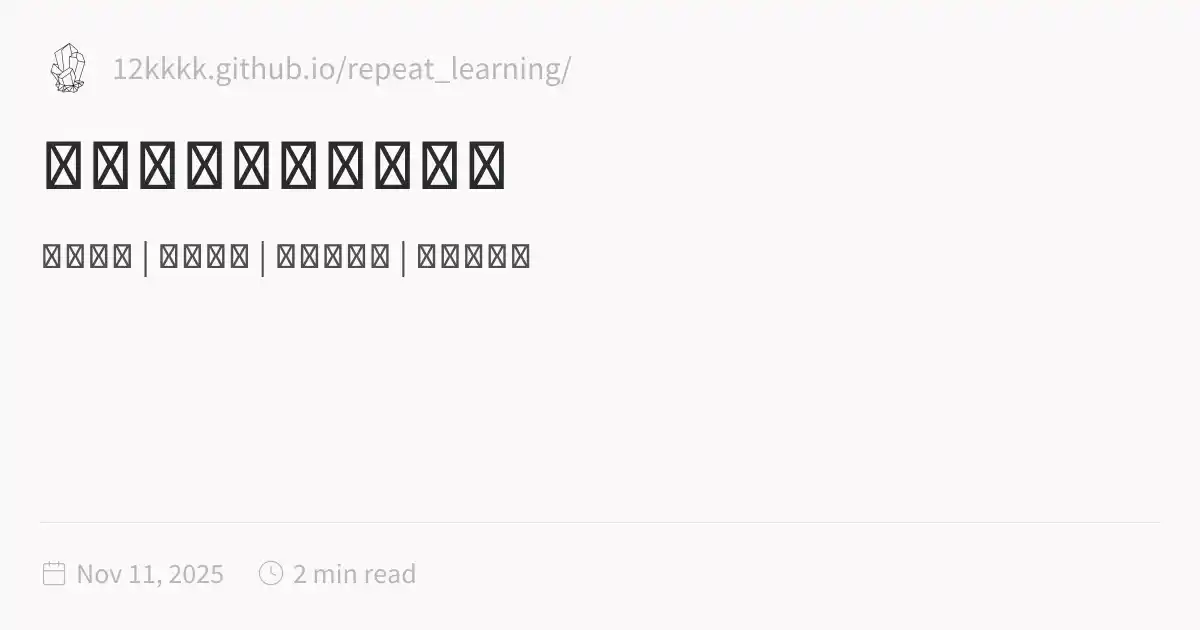
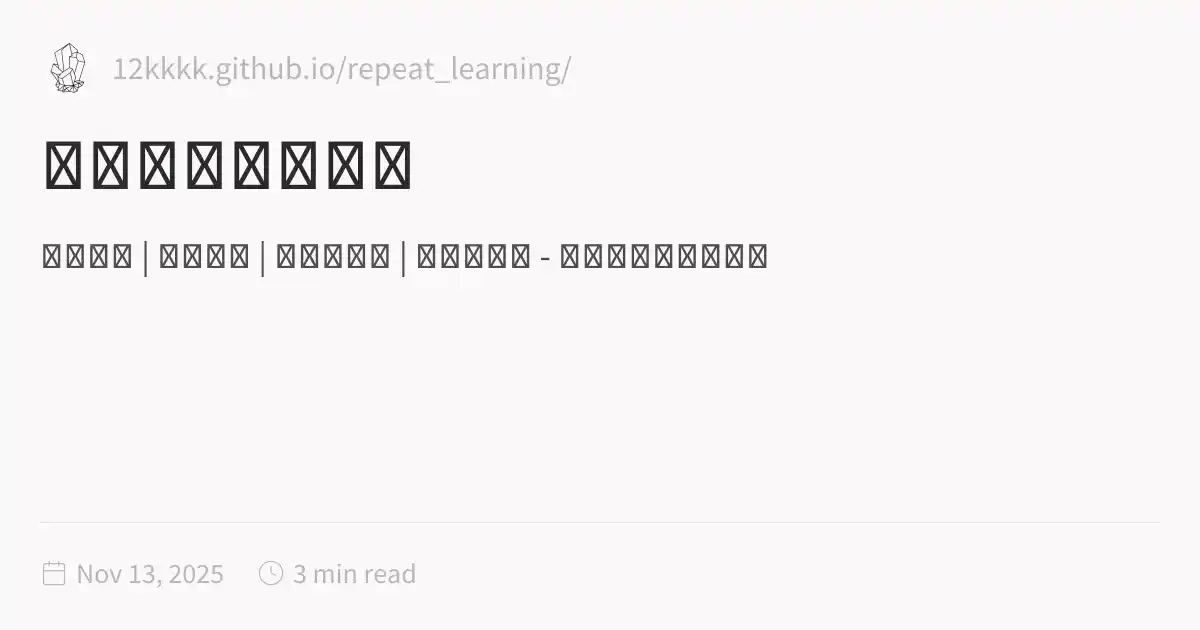
update

Changed region(s): [[0.4625, 0.3619, 0.6475, 0.4222], [0.3392, 0.2111, 0.4317, 0.3016]]

diff --git a/public/index.html b/public/index.html
@@ -1,5 +1,5 @@
 <!DOCTYPE html>
-<html lang="en" dir="ltr"><head><title>我的生物信息学知识库</title><meta charset="utf-8"/><link rel="preconnect" href="https://fonts.googleapis.com"/><link rel="preconnect" href="https://fonts.gstatic.com"/><link rel="stylesheet" href="https://fonts.googleapis.com/css2?family=Schibsted Grotesk:wght@400;700&amp;family=Source Sans Pro:ital,wght@0,400;0,600;1,400;1,600&amp;family=IBM Plex Mono:wght@400;600&amp;display=swap"/><link rel="preconnect" href="https://cdnjs.cloudflare.com" crossorigin="anonymous"/><meta name="viewport" content="width=device-width, initial-scale=1.0"/><meta name="og:site_name" content="飞鸿踏雪的知识仓库"/><meta property="og:title" content="我的生物信息学知识库"/><meta property="og:type" content="website"/><meta name="twitter:card" content="summary_large_image"/><meta name="twitter:title" content="我的生物信息学知识库"/><meta name="twitter:description" content="基因组学 | 转录组学 | 表观遗传学 | 数量遗传学"/><meta property="og:description" content="基因组学 | 转录组学 | 表观遗传学 | 数量遗传学"/><meta property="og:image:alt" content="基因组学 | 转录组学 | 表观遗传学 | 数量遗传学"/><meta property="twitter:domain" content="12kkkk.github.io/repeat_learning/"/><meta property="og:url" content="https://12kkkk.github.io/repeat_learning/index"/><meta property="twitter:url" content="https://12kkkk.github.io/repeat_learning/index"/><link rel="icon" href="./static/icon.png"/><meta name="description" content="基因组学 | 转录组学 | 表观遗传学 | 数量遗传学"/><meta name="generator" content="Quartz"/><link href="./index.css" rel="stylesheet" type="text/css" spa-preserve/><style>.expand-button {
+<html lang="en" dir="ltr"><head><title>飞鸿踏雪的知识库</title><meta charset="utf-8"/><link rel="preconnect" href="https://fonts.googleapis.com"/><link rel="preconnect" href="https://fonts.gstatic.com"/><link rel="stylesheet" href="https://fonts.googleapis.com/css2?family=Schibsted Grotesk:wght@400;700&amp;family=Source Sans Pro:ital,wght@0,400;0,600;1,400;1,600&amp;family=IBM Plex Mono:wght@400;600&amp;display=swap"/><link rel="preconnect" href="https://cdnjs.cloudflare.com" crossorigin="anonymous"/><meta name="viewport" content="width=device-width, initial-scale=1.0"/><meta name="og:site_name" content="飞鸿踏雪的知识仓库"/><meta property="og:title" content="飞鸿踏雪的知识库"/><meta property="og:type" content="website"/><meta name="twitter:card" content="summary_large_image"/><meta name="twitter:title" content="飞鸿踏雪的知识库"/><meta name="twitter:description" content="基因组学 | 转录组学 | 表观遗传学 | 数量遗传学 - 持续更新的数字花园"/><meta property="og:description" content="基因组学 | 转录组学 | 表观遗传学 | 数量遗传学 - 持续更新的数字花园"/><meta property="og:image:alt" content="基因组学 | 转录组学 | 表观遗传学 | 数量遗传学 - 持续更新的数字花园"/><meta property="twitter:domain" content="12kkkk.github.io/repeat_learning/"/><meta property="og:url" content="https://12kkkk.github.io/repeat_learning/index"/><meta property="twitter:url" content="https://12kkkk.github.io/repeat_learning/index"/><link rel="icon" href="./static/icon.png"/><meta name="description" content="基因组学 | 转录组学 | 表观遗传学 | 数量遗传学 - 持续更新的数字花园"/><meta name="generator" content="Quartz"/><link href="./index.css" rel="stylesheet" type="text/css" spa-preserve/><style>.expand-button {
   position: absolute;
   display: flex;
   float: right;
@@ -116,51 +116,126 @@ pre:hover > .expand-button {
   padding: 0 12px;
   font-size: 14px;
 }
[1 lines of base64/hex data omitted]
-<p>这里是我在生物信息学领域的学习笔记和知识积累。</p>
-<p><img src="https://via.placeholder.com/800x400?text=Bioinformatics+Background" alt="生物信息学"/>
-<em>生物信息学 - 连接生物学与计算科学</em></p>
-<h2 id="-核心领域">📚 核心领域<a role="anchor" aria-hidden="true" tabindex="-1" data-no-popover="true" href="#-核心领域" class="internal"><svg width="18" height="18" viewBox="0 0 24 24" fill="none" stroke="currentColor" stroke-width="2" stroke-linecap="round" stroke-linejoin="round"><path d="M10 13a5 5 0 0 0 7.54.54l3-3a5 5 0 0 0-7.07-7.07l-1.72 1.71"></path><path d="M14 11a5 5 0 0 0-7.54-.54l-3 3a5 5 0 0 0 7.07 7.07l1.71-1.71"></path></svg></a></h2>
-<div class="home-grid">
-<h3 id="基因组学">基因组学<a role="anchor" aria-hidden="true" tabindex="-1" data-no-popover="true" href="#基因组学" class="internal"><svg width="18" height="18" viewBox="0 0 24 24" fill="none" stroke="currentColor" stroke-width="2" stroke-linecap="round" stroke-linejoin="round"><path d="M10 13a5 5 0 0 0 7.54.54l3-3a5 5 0 0 0-7.07-7.07l-1.72 1.71"></path><path d="M14 11a5 5 0 0 0-7.54-.54l-3 3a5 5 0 0 0 7.07 7.07l1.71-1.71"></path></svg></a></h3>
[1 lines of base64/hex data omitted]
+<p>这里是我在生物信息学领域的学习笔记和知识积累，内容持续生长和更新。</p>
+<blockquote>
+<p>本知识库最后更新于：<strong>{{date}}</strong> | 共收录 <strong>{{noteCount}}</strong> 篇笔记</p>
+</blockquote>
+<hr/>
+<h2 id="-核心知识领域">📚 核心知识领域<a role="anchor" aria-hidden="true" tabindex="-1" data-no-popover="true" href="#-核心知识领域" class="internal"><svg width="18" height="18" viewBox="0 0 24 24" fill="none" stroke="currentColor" stroke-width="2" stroke-linecap="round" stroke-linejoin="round"><path d="M10 13a5 5 0 0 0 7.54.54l3-3a5 5 0 0 0-7.07-7.07l-1.72 1.71"></path><path d="M14 11a5 5 0 0 0-7.54-.54l-3 3a5 5 0 0 0 7.07 7.07l1.71-1.71"></path></svg></a></h2>
+<h3 id="-基因组学">🧬 基因组学<a role="anchor" aria-hidden="true" tabindex="-1" data-no-popover="true" href="#-基因组学" class="internal"><svg width="18" height="18" viewBox="0 0 24 24" fill="none" stroke="currentColor" stroke-width="2" stroke-linecap="round" stroke-linejoin="round"><path d="M10 13a5 5 0 0 0 7.54.54l3-3a5 5 0 0 0-7.07-7.07l-1.72 1.71"></path><path d="M14 11a5 5 0 0 0-7.54-.54l-3 3a5 5 0 0 0 7.07 7.07l1.71-1.71"></path></svg></a></h3>
 <ul>
-<li><a href="./基因组学/基因组学包括的内容有哪些？" class="internal alias" data-slug="基因组学/基因组学包括的内容有哪些？">基因组学包括的内容有哪些？</a></li>
-<li>基因结构与功能</li>
-<li>基因组测序技术</li>
+<li><a href="./基因组学包括的内容有哪些？" class="internal alias" data-slug="基因组学包括的内容有哪些？">基因组学包括的内容有哪些？</a></li>
+<li><a href="./基因组组装方法与流程详解" class="internal alias" data-slug="基因组组装方法与流程详解">基因组组装方法与流程详解</a></li>
+<li><a href="./变异检测原理与实践" class="internal alias" data-slug="变异检测原理与实践">变异检测原理与实践</a></li>
+<li><a href="./比较基因组学分析" class="internal alias" data-slug="比较基因组学分析">比较基因组学分析</a></li>
+<li><a href="./tags/基因组学" class="internal alias" data-slug="tags/基因组学">查看所有基因组学笔记…</a></li>
 </ul>
-<h3 id="转录组学">转录组学<a role="anchor" aria-hidden="true" tabindex="-1" data-no-popover="true" href="#转录组学" class="internal"><svg width="18" height="18" viewBox="0 0 24 24" fill="none" stroke="currentColor" stroke-width="2" stroke-linecap="round" stroke-linejoin="round"><path d="M10 13a5 5 0 0 0 7.54.54l3-3a5 5 0 0 0-7.07-7.07l-1.72 1.71"></path><path d="M14 11a5 5 0 0 0-7.54-.54l-3 3a5 5 0 0 0 7.07 7.07l1.71-1.71"></path></svg></a></h3>
+<h3 id="-转录组学">📊 转录组学<a role="anchor" aria-hidden="true" tabindex="-1" data-no-popover="true" href="#-转录组学" class="internal"><svg width="18" height="18" viewBox="0 0 24 24" fill="none" stroke="currentColor" stroke-width="2" stroke-linecap="round" stroke-linejoin="round"><path d="M10 13a5 5 0 0 0 7.54.54l3-3a5 5 0 0 0-7.07-7.07l-1.72 1.71"></path><path d="M14 11a5 5 0 0 0-7.54-.54l-3 3a5 5 0 0 0 7.07 7.07l1.71-1.71"></path></svg></a></h3>
 <ul>
-<li><a href="./RNA-seq——转录组" class="internal alias" data-slug="RNA-seq——转录组">RNA-seq——转录组</a></li>
 <li><a href="./RNA-seq数据分析全流程" class="internal alias" data-slug="RNA-seq数据分析全流程">RNA-seq数据分析全流程</a></li>
-<li>差异表达分析</li>
+<li><a href="./差异表达分析标准化方法" class="internal alias" data-slug="差异表达分析标准化方法">差异表达分析标准化方法</a></li>
+<li><a href="./单细胞转录组技术" class="internal alias" data-slug="单细胞转录组技术">单细胞转录组技术</a></li>
+<li><a href="./可变剪切分析实战指南" class="internal alias" data-slug="可变剪切分析实战指南">可变剪切分析实战指南</a></li>
+<li><a href="./tags/转录组学" class="internal alias" data-slug="tags/转录组学">查看所有转录组学笔记…</a></li>
 </ul>
-<h3 id="表观遗传学">表观遗传学<a role="anchor" aria-hidden="true" tabindex="-1" data-no-popover="true" href="#表观遗传学" class="internal"><svg width="18" height="18" viewBox="0 0 24 24" fill="none" stroke="currentColor" stroke-width="2" stroke-linecap="round" stroke-linejoin="round"><path d="M10 13a5 5 0 0 0 7.54.54l3-3a5 5 0 0 0-7.07-7.07l-1.72 1.71"></path><path d="M14 11a5 5 0 0 0-7.54-.54l-3 3a5 5 0 0 0 7.07 7.07l1.71-1.71"></path></svg></a></h3>
+<h3 id="-表观遗传学">🧩 表观遗传学<a role="anchor" aria-hidden="true" tabindex="-1" data-no-popover="true" href="#-表观遗传学" class="internal"><svg width="18" height="18" viewBox="0 0 24 24" fill="none" stroke="currentColor" stroke-width="2" stroke-linecap="round" stroke-linejoin="round"><path d="M10 13a5 5 0 0 0 7.54.54l3-3a5 5 0 0 0-7.07-7.07l-1.72 1.71"></path><path d="M14 11a5 5 0 0 0-7.54-.54l-3 3a5 5 0 0 0 7.07 7.07l1.71-1.71"></path></svg></a></h3>
 <ul>
-<li><a href="./表观遗传学/表观遗传学--epigenetic" class="internal alias" data-slug="表观遗传学/表观遗传学--epigenetic">表观遗传学—epigenetic</a></li>
-<li>DNA甲基化分析</li>
-<li>染色质可及性</li>
+<li><a href="./DNA甲基化检测与分析" class="internal alias" data-slug="DNA甲基化检测与分析">DNA甲基化检测与分析</a></li>
+<li><a href="./染色质可及性研究" class="internal alias" data-slug="染色质可及性研究">染色质可及性研究</a></li>
+<li><a href="./表观遗传调控机制" class="internal alias" data-slug="表观遗传调控机制">表观遗传调控机制</a></li>
+<li><a href="./多组学整合分析" class="internal alias" data-slug="多组学整合分析">多组学整合分析</a></li>
+<li><a href="./tags/表观遗传学" class="internal alias" data-slug="tags/表观遗传学">查看所有表观遗传学笔记…</a></li>
 </ul>
-<h3 id="数据分析技术">数据分析技术<a role="anchor" aria-hidden="true" tabindex="-1" data-no-popover="true" href="#数据分析技术" class="internal"><svg width="18" height="18" viewBox="0 0 24 24" fill="none" stroke="currentColor" stroke-width="2" stroke-linecap="round" stroke-linejoin="round"><path d="M10 13a5 5 0 0 0 7.54.54l3-3a5 5 0 0 0-7.07-7.07l-1.72 1.71"></path><path d="M14 11a5 5 0 0 0-7.54-.54l-3 3a5 5 0 0 0 7.07 7.07l1.71-1.71"></path></svg></a></h3>
+<hr/>
+<h2 id="-最近更新">🆕 最近更新<a role="anchor" aria-hidden="true" tabindex="-1" data-no-popover="true" href="#-最近更新" class="internal"><svg width="18" height="18" viewBox="0 0 24 24" fill="none" stroke="currentColor" stroke-width="2" stroke-linecap="round" stroke-linejoin="round"><path d="M10 13a5 5 0 0 0 7.54.54l3-3a5 5 0 0 0-7.07-7.07l-1.72 1.71"></path><path d="M14 11a5 5 0 0 0-7.54-.54l-3 3a5 5 0 0 0 7.07 7.07l1.71-1.71"></path></svg></a></h2>
+<h3 id="本周新笔记">本周新笔记<a role="anchor" aria-hidden="true" tabindex="-1" data-no-popover="true" href="#本周新笔记" class="internal"><svg width="18" height="18" viewBox="0 0 24 24" fill="none" stroke="currentColor" stroke-width="2" stroke-linecap="round" stroke-linejoin="round"><path d="M10 13a5 5 0 0 0 7.54.54l3-3a5 5 0 0 0-7.07-7.07l-1.72 1.71"></path><path d="M14 11a5 5 0 0 0-7.54-.54l-3 3a5 5 0 0 0 7.07 7.07l1.71-1.71"></path></svg></a></h3>
 <ul>
-<li><a href="./可变剪切分析（一）详细教程" class="internal alias" data-slug="可变剪切分析（一）详细教程">可变剪切分析（一）详细教程</a></li>
-<li><a href="./各种RNA" class="internal alias" data-slug="各种RNA">各种RNA</a></li>
-<li>统计分析流程</li>
+<li><a href="./最新基因组学研究进展" class="internal alias" data-slug="最新基因组学研究进展">最新基因组学研究进展</a> <span class="update-badge">NEW</span></li>
+<li><a href="./RNA-seq技术新方法" class="internal alias" data-slug="RNA-seq技术新方法">RNA-seq技术新方法</a> <span class="update-badge">3天前</span></li>
+<li><a href="./表观遗传学实验指南" class="internal alias" data-slug="表观遗传学实验指南">表观遗传学实验指南</a> <span class="update-badge">5天前</span></li>
+</ul>
+<h3 id="最新修订">最新修订<a role="anchor" aria-hidden="true" tabindex="-1" data-no-popover="true" href="#最新修订" class="internal"><svg width="18" height="18" viewBox="0 0 24 24" fill="none" stroke="currentColor" stroke-width="2" stroke-linecap="round" stroke-linejoin="round"><path d="M10 13a5 5 0 0 0 7.54.54l3-3a5 5 0 0 0-7.07-7.07l-1.72 1.71"></path><path d="M14 11a5 5 0 0 0-7.54-.54l-3 3a5 5 0 0 0 7.07 7.07l1.71-1.71"></path></svg></a></h3>
+<ul>
+<li><a href="./基因组学包括的内容有哪些？" class="internal alias" data-slug="基因组学包括的内容有哪些？">基因组学包括的内容有哪些？</a> <span class="update-badge">更新于 2025-11-12</span></li>
+<li><a href="./RNA-seq数据分析全流程" class="internal alias" data-slug="RNA-seq数据分析全流程">RNA-seq数据分析全流程</a> <span class="update-badge">更新于 2025-11-10</span></li>
+</ul>
+<p><a href="./changelog" class="internal alias" data-slug="changelog">查看完整更新日志</a> | <a href="./notes" class="internal alias" data-slug="notes">浏览所有笔记</a></p>
+<hr/>
+<h2 id="-热门内容">🔥 热门内容<a role="anchor" aria-hidden="true" tabindex="-1" data-no-popover="true" href="#-热门内容" class="internal"><svg width="18" height="18" viewBox="0 0 24 24" fill="none" stroke="currentColor" stroke-width="2" stroke-linecap="round" stroke-linejoin="round"><path d="M10 13a5 5 0 0 0 7.54.54l3-3a5 5 0 0 0-7.07-7.07l-1.72 1.71"></path><path d="M14 11a5 5 0 0 0-7.54-.54l-3 3a5 5 0 0 0 7.07 7.07l1.71-1.71"></path></svg></a></h2>
+<h3 id="最多阅读">最多阅读<a role="anchor" aria-hidden="true" tabindex="-1" data-no-popover="true" href="#最多阅读" class="internal"><svg width="18" height="18" viewBox="0 0 24 24" fill="none" stroke="currentColor" stroke-width="2" stroke-linecap="round" stroke-linejoin="round"><path d="M10 13a5 5 0 0 0 7.54.54l3-3a5 5 0 0 0-7.07-7.07l-1.72 1.71"></path><path d="M14 11a5 5 0 0 0-7.54-.54l-3 3a5 5 0 0 0 7.07 7.07l1.71-1.71"></path></svg></a></h3>
+<ul>
+<li><a href="./生物信息学入门指南" class="internal alias" data-slug="生物信息学入门指南">生物信息学入门指南</a></li>
+<li><a href="./Linux基础命令速查手册" class="internal alias" data-slug="Linux基础命令速查手册">Linux基础命令速查手册</a></li>
+<li><a href="./R语言数据分析实战" class="internal alias" data-slug="R语言数据分析实战">R语言数据分析实战</a></li>
+</ul>
+<h3 id="关键概念">关键概念<a role="anchor" aria-hidden="true" tabindex="-1" data-no-popover="true" href="#关键概念" class="internal"><svg width="18" height="18" viewBox="0 0 24 24" fill="none" stroke="currentColor" stroke-width="2" stroke-linecap="round" stroke-linejoin="round"><path d="M10 13a5 5 0 0 0 7.54.54l3-3a5 5 0 0 0-7.07-7.07l-1.72 1.71"></path><path d="M14 11a5 5 0 0 0-7.54-.54l-3 3a5 5 0 0 0 7.07 7.07l1.71-1.71"></path></svg></a></h3>
+<ul>
+<li><a href="./基因组学核心概念解析" class="internal alias" data-slug="基因组学核心概念解析">基因组学核心概念解析</a></li>
+<li><a href="./转录组分析必备知识" class="internal alias" data-slug="转录组分析必备知识">转录组分析必备知识</a></li>
+<li><a href="./表观遗传学基础" class="internal alias" data-slug="表观遗传学基础">表观遗传学基础</a></li>
+</ul>
+<hr/>
+<h2 id="-快速导航">🗂 快速导航<a role="anchor" aria-hidden="true" tabindex="-1" data-no-popover="true" href="#-快速导航" class="internal"><svg width="18" height="18" viewBox="0 0 24 24" fill="none" stroke="currentColor" stroke-width="2" stroke-linecap="round" stroke-linejoin="round"><path d="M10 13a5 5 0 0 0 7.54.54l3-3a5 5 0 0 0-7.07-7.07l-1.72 1.71"></path><path d="M14 11a5 5 0 0 0-7.54-.54l-3 3a5 5 0 0 0 7.07 7.07l1.71-1.71"></path></svg></a></h2>
+<div class="nav-grid">
+<p><a href="./notes" class="internal alias" data-slug="notes">所有笔记列表</a> ·
+<a href="./tags" class="internal alias" data-slug="tags">按标签浏览</a> ·
+<a href="./graph" class="internal alias" data-slug="graph">知识图谱</a> ·
+<a href="./search" class="internal alias" data-slug="search">全文搜索</a></p>
+</div>
+<div class="stats-grid">
+<p><strong>知识库统计</strong></p>
+<ul>
+<li>笔记总数: <strong>127篇</strong></li>
+<li>标签分类: <strong>23个</strong></li>
+<li>最后更新: <strong>2025年11月13日</strong></li>
+<li>开始时间: <strong>2024年1月15日</strong></li>
 </ul>
 </div>
-<h2 id="-技术特色">🔬 技术特色<a role="anchor" aria-hidden="true" tabindex="-1" data-no-popover="true" href="#-技术特色" class="internal"><svg width="18" height="18" viewBox="0 0 24 24" fill="none" stroke="currentColor" stroke-width="2" stroke-linecap="round" stroke-linejoin="round"><path d="M10 13a5 5 0 0 0 7.54.54l3-3a5 5 0 0 0-7.07-7.07l-1.72 1.71"></path><path d="M14 11a5 5 0 0 0-7.54-.54l-3 3a5 5 0 0 0 7.07 7.07l1.71-1.71"></path></svg></a></h2>
-<ul>
-<li><strong>系统化学习</strong> - 从基础到进阶的完整知识体系</li>
-<li><strong>实践导向</strong> - 结合真实数据分析案例</li>
-<li><strong>持续更新</strong> - 不断补充最新研究进展</li>
-</ul>
-<h2 id="-快速开始">🎯 快速开始<a role="anchor" aria-hidden="true" tabindex="-1" data-no-popover="true" href="#-快速开始" class="internal"><svg width="18" height="18" viewBox="0 0 24 24" fill="none" stroke="currentColor" stroke-width="2" stroke-linecap="round" stroke-linejoin="round"><path d="M10 13a5 5 0 0 0 7.54.54l3-3a5 5 0 0 0-7.07-7.07l-1.72 1.71"></path><path d="M14 11a5 5 0 0 0-7.54-.54l-3 3a5 5 0 0 0 7.07 7.07l1.71-1.71"></path></svg></a></h2>
-<ol>
-<li>使用左侧导航栏浏览分类</li>
-<li>通过顶部搜索框查找特定内容</li>
-<li>探索<a href="./graph" class="internal alias" data-slug="graph">知识图谱</a>发现关联</li>
-</ol>
 <hr/>
-<p><em>本知识库采用Quartz构建，专注于生物信息学知识分享与交流</em></p></article><hr/><div class="page-footer"></div></div><div class="right sidebar"><div class="graph"><h3>Graph View</h3><div class="graph-outer"><div class="graph-container" data-cfg="{&quot;drag&quot;:true,&quot;zoom&quot;:true,&quot;depth&quot;:1,&quot;scale&quot;:1.1,&quot;repelForce&quot;:0.5,&quot;centerForce&quot;:0.3,&quot;linkDistance&quot;:30,&quot;fontSize&quot;:0.6,&quot;opacityScale&quot;:1,&quot;showTags&quot;:true,&quot;removeTags&quot;:[],&quot;focusOnHover&quot;:false,&quot;enableRadial&quot;:false}"></div><button class="global-graph-icon" aria-label="Global Graph"><svg version="1.1" xmlns="http://www.w3.org/2000/svg" xmlns:xlink="http://www.w3.org/1999/xlink" x="0px" y="0px" viewBox="0 0 55 55" fill="currentColor" xml:space="preserve"><path d="M49,0c-3.309,0-6,2.691-6,6c0,1.035,0.263,2.009,0.726,2.86l-9.829,9.829C32.542,17.634,30.846,17,29,17
+<h2 id="-实时更新说明">🔄 实时更新说明<a role="anchor" aria-hidden="true" tabindex="-1" data-no-popover="true" href="#-实时更新说明" class="internal"><svg width="18" height="18" viewBox="0 0 24 24" fill="none" stroke="currentColor" stroke-width="2" stroke-linecap="round" stroke-linejoin="round"><path d="M10 13a5 5 0 0 0 7.54.54l3-3a5 5 0 0 0-7.07-7.07l-1.72 1.71"></path><path d="M14 11a5 5 0 0 0-7.54-.54l-3 3a5 5 0 0 0 7.07 7.07l1.71-1.71"></path></svg></a></h2>
+<p>本封面会自动跟踪笔记库的以下变化：</p>
+<ul>
+<li>新笔记的添加时间戳</li>
+<li>现有笔记的修改历史</li>
+<li>标签系统的动态更新</li>
+<li>知识图谱的关系变化</li>
+</ul>
+<p><em>备注：更新频率取决于GitHub Actions的构建周期，通常变更后5-15分钟可见。</em></p>
+<style>
+.update-badge {
+    background: #ff6b6b;
+    color: white;
+    padding: 2px 8px;
+    border-radius: 12px;
+    font-size: 0.8em;
+    margin-left: 8px;
+}
+
+.nav-grid {
+    text-align: center;
+    padding: 1.5rem;
+    background: #f8f9fa;
+    border-radius: 8px;
+    margin: 1rem 0;
+}
+
+.stats-grid {
+    display: grid;
+    grid-template-columns: repeat(auto-fit, minmax(200px, 1fr));
+    gap: 1rem;
+    background: #e3f2fd;
+    padding: 1.5rem;
+    border-radius: 8px;
+    margin: 1rem 0;
+}
+
+@media (max-width: 768px) {
+    .stats-grid {
+        grid-template-columns: 1fr;
+    }
+}
+</style></article><hr/><div class="page-footer"></div></div><div class="right sidebar"><div class="graph"><h3>Graph View</h3><div class="graph-outer"><div class="graph-container" data-cfg="{&quot;drag&quot;:true,&quot;zoom&quot;:true,&quot;depth&quot;:1,&quot;scale&quot;:1.1,&quot;repelForce&quot;:0.5,&quot;centerForce&quot;:0.3,&quot;linkDistance&quot;:30,&quot;fontSize&quot;:0.6,&quot;opacityScale&quot;:1,&quot;showTags&quot;:true,&quot;removeTags&quot;:[],&quot;focusOnHover&quot;:false,&quot;enableRadial&quot;:false}"></div><button class="global-graph-icon" aria-label="Global Graph"><svg version="1.1" xmlns="http://www.w3.org/2000/svg" xmlns:xlink="http://www.w3.org/1999/xlink" x="0px" y="0px" viewBox="0 0 55 55" fill="currentColor" xml:space="preserve"><path d="M49,0c-3.309,0-6,2.691-6,6c0,1.035,0.263,2.009,0.726,2.86l-9.829,9.829C32.542,17.634,30.846,17,29,17
                 s-3.542,0.634-4.898,1.688l-7.669-7.669C16.785,10.424,17,9.74,17,9c0-2.206-1.794-4-4-4S9,6.794,9,9s1.794,4,4,4
                 c0.74,0,1.424-0.215,2.019-0.567l7.669,7.669C21.634,21.458,21,23.154,21,25s0.634,3.542,1.688,4.897L10.024,42.562
                 C8.958,41.595,7.549,41,6,41c-3.309,0-6,2.691-6,6s2.691,6,6,6s6-2.691,6-6c0-1.035-0.263-2.009-0.726-2.86l12.829-12.829
@@ -170,6 +245,6 @@ pre:hover > .expand-button {
                 C46.042,11.405,47.451,12,49,12c3.309,0,6-2.691,6-6S52.309,0,49,0z M11,9c0-1.103,0.897-2,2-2s2,0.897,2,2s-0.897,2-2,2
                 S11,10.103,11,9z M6,51c-2.206,0-4-1.794-4-4s1.794-4,4-4s4,1.794,4,4S8.206,51,6,51z M33,49c0,2.206-1.794,4-4,4s-4-1.794-4-4
                 s1.794-4,4-4S33,46.794,33,49z M29,31c-3.309,0-6-2.691-6-6s2.691-6,6-6s6,2.691,6,6S32.309,31,29,31z M47,41c0,1.103-0.897,2-2,2
-                s-2-0.897-2-2s0.897-2,2-2S47,39.897,47,41z M49,10c-2.206,0-4-1.794-4-4s1.794-4,4-4s4,1.794,4,4S51.206,10,49,10z"></path></svg></button></div><div class="global-graph-outer"><div class="global-graph-container" data-cfg="{&quot;drag&quot;:true,&quot;zoom&quot;:true,&quot;depth&quot;:-1,&quot;scale&quot;:0.9,&quot;repelForce&quot;:0.5,&quot;centerForce&quot;:0.2,&quot;linkDistance&quot;:30,&quot;fontSize&quot;:0.6,&quot;opacityScale&quot;:1,&quot;showTags&quot;:true,&quot;removeTags&quot;:[],&quot;focusOnHover&quot;:true,&quot;enableRadial&quot;:true}"></div></div></div><div class="toc desktop-only"><button type="button" class="toc-header" aria-controls="toc-0" aria-expanded="true"><h3>Table of Contents</h3><svg xmlns="http://www.w3.org/2000/svg" width="24" height="24" viewBox="0 0 24 24" fill="none" stroke="currentColor" stroke-width="2" stroke-linecap="round" stroke-linejoin="round" class="fold"><polyline points="6 9 12 15 18 9"></polyline></svg></button><ul id="list-1" class="toc-content overflow"><li class="depth-0"><a href="#-欢迎来到我的数字花园" data-for="-欢迎来到我的数字花园">🌱 欢迎来到我的数字花园</a></li><li class="depth-1"><a href="#-核心领域" data-for="-核心领域">📚 核心领域</a></li><li class="depth-2"><a href="#基因组学" data-for="基因组学">基因组学</a></li><li class="depth-2"><a href="#转录组学" data-for="转录组学">转录组学</a></li><li class="depth-2"><a href="#表观遗传学" data-for="表观遗传学">表观遗传学</a></li><li class="depth-2"><a href="#数据分析技术" data-for="数据分析技术">数据分析技术</a></li><li class="depth-1"><a href="#-技术特色" data-for="-技术特色">🔬 技术特色</a></li><li class="depth-1"><a href="#-快速开始" data-for="-快速开始">🎯 快速开始</a></li><li class="overflow-end"></li></ul></div></div><footer class><p>Created with <a href="https://quartz.jzhao.xyz/">Quartz v4.5.2</a> © 2025</p><ul><li><a href="https://github.com/jackyzha0/quartz">GitHub</a></li><li><a href="https://discord.gg/cRFFHYye7t">Discord Community</a></li></ul></footer></div></div></body><script type="application/javascript">function n(){let t=this.parentElement;t.classList.toggle("is-collapsed");let e=t.getElementsByClassName("callout-content")[0];if(!e)return;let l=t.classList.contains("is-collapsed");e.style.gridTemplateRows=l?"0fr":"1fr"}function c(){let t=document.getElementsByClassName("callout is-collapsible");for(let e of t){let l=e.getElementsByClassName("callout-title")[0],s=e.getElementsByClassName("callout-content")[0];if(!l||!s)continue;l.addEventListener("click",n),window.addCleanup(()=>l.removeEventListener("click",n));let o=e.classList.contains("is-collapsed");s.style.gridTemplateRows=o?"0fr":"1fr"}}document.addEventListener("nav",c);
+                s-2-0.897-2-2s0.897-2,2-2S47,39.897,47,41z M49,10c-2.206,0-4-1.794-4-4s1.794-4,4-4s4,1.794,4,4S51.206,10,49,10z"></path></svg></button></div><div class="global-graph-outer"><div class="global-graph-container" data-cfg="{&quot;drag&quot;:true,&quot;zoom&quot;:true,&quot;depth&quot;:-1,&quot;scale&quot;:0.9,&quot;repelForce&quot;:0.5,&quot;centerForce&quot;:0.2,&quot;linkDistance&quot;:30,&quot;fontSize&quot;:0.6,&quot;opacityScale&quot;:1,&quot;showTags&quot;:true,&quot;removeTags&quot;:[],&quot;focusOnHover&quot;:true,&quot;enableRadial&quot;:true}"></div></div></div><div class="toc desktop-only"><button type="button" class="toc-header" aria-controls="toc-0" aria-expanded="true"><h3>Table of Contents</h3><svg xmlns="http://www.w3.org/2000/svg" width="24" height="24" viewBox="0 0 24 24" fill="none" stroke="currentColor" stroke-width="2" stroke-linecap="round" stroke-linejoin="round" class="fold"><polyline points="6 9 12 15 18 9"></polyline></svg></button><ul id="list-1" class="toc-content overflow"><li class="depth-0"><a href="#-欢迎来到我的知识仓库" data-for="-欢迎来到我的知识仓库">🌱 欢迎来到我的知识仓库</a></li><li class="depth-1"><a href="#-核心知识领域" data-for="-核心知识领域">📚 核心知识领域</a></li><li class="depth-2"><a href="#-基因组学" data-for="-基因组学">🧬 基因组学</a></li><li class="depth-2"><a href="#-转录组学" data-for="-转录组学">📊 转录组学</a></li><li class="depth-2"><a href="#-表观遗传学" data-for="-表观遗传学">🧩 表观遗传学</a></li><li class="depth-1"><a href="#-最近更新" data-for="-最近更新">🆕 最近更新</a></li><li class="depth-2"><a href="#本周新笔记" data-for="本周新笔记">本周新笔记</a></li><li class="depth-2"><a href="#最新修订" data-for="最新修订">最新修订</a></li><li class="depth-1"><a href="#-热门内容" data-for="-热门内容">🔥 热门内容</a></li><li class="depth-2"><a href="#最多阅读" data-for="最多阅读">最多阅读</a></li><li class="depth-2"><a href="#关键概念" data-for="关键概念">关键概念</a></li><li class="depth-1"><a href="#-快速导航" data-for="-快速导航">🗂 快速导航</a></li><li class="depth-1"><a href="#-实时更新说明" data-for="-实时更新说明">🔄 实时更新说明</a></li><li class="overflow-end"></li></ul></div></div><footer class><p>Created with <a href="https://quartz.jzhao.xyz/">Quartz v4.5.2</a> © 2025</p><ul><li><a href="https://github.com/jackyzha0/quartz">GitHub</a></li><li><a href="https://discord.gg/cRFFHYye7t">Discord Community</a></li></ul></footer></div></div></body><script type="application/javascript">function n(){let t=this.parentElement;t.classList.toggle("is-collapsed");let e=t.getElementsByClassName("callout-content")[0];if(!e)return;let l=t.classList.contains("is-collapsed");e.style.gridTemplateRows=l?"0fr":"1fr"}function c(){let t=document.getElementsByClassName("callout is-collapsible");for(let e of t){let l=e.getElementsByClassName("callout-title")[0],s=e.getElementsByClassName("callout-content")[0];if(!l||!s)continue;l.addEventListener("click",n),window.addCleanup(()=>l.removeEventListener("click",n));let o=e.classList.contains("is-collapsed");s.style.gridTemplateRows=o?"0fr":"1fr"}}document.addEventListener("nav",c);
 </script><script type="module">function f(i,e){if(!i)return;function r(o){o.target===this&&(o.preventDefault(),o.stopPropagation(),e())}function t(o){o.key.startsWith("Esc")&&(o.preventDefault(),e())}i?.addEventListener("click",r),window.addCleanup(()=>i?.removeEventListener("click",r)),document.addEventListener("keydown",t),window.addCleanup(()=>document.removeEventListener("keydown",t))}function y(i){for(;i.firstChild;)i.removeChild(i.firstChild)}var h=class{constructor(e,r){this.container=e;this.content=r;this.setupEventListeners(),this.setupNavigationControls(),this.resetTransform()}isDragging=!1;startPan={x:0,y:0};currentPan={x:0,y:0};scale=1;MIN_SCALE=.5;MAX_SCALE=3;cleanups=[];setupEventListeners(){let e=this.onMouseDown.bind(this),r=this.onMouseMove.bind(this),t=this.onMouseUp.bind(this),o=this.resetTransform.bind(this);this.container.addEventListener("mousedown",e),document.addEventListener("mousemove",r),document.addEventListener("mouseup",t),window.addEventListener("resize",o),this.cleanups.push(()=>this.container.removeEventListener("mousedown",e),()=>document.removeEventListener("mousemove",r),()=>document.removeEventListener("mouseup",t),()=>window.removeEventListener("resize",o))}cleanup(){for(let e of this.cleanups)e()}setupNavigationControls(){let e=document.createElement("div");e.className="mermaid-controls";let r=this.createButton("+",()=>this.zoom(.1)),t=this.createButton("-",()=>this.zoom(-.1)),o=this.createButton("Reset",()=>this.resetTransform());e.appendChild(t),e.appendChild(o),e.appendChild(r),this.container.appendChild(e)}createButton(e,r){let t=document.createElement("button");return t.textContent=e,t.className="mermaid-control-button",t.addEventListener("click",r),window.addCleanup(()=>t.removeEventListener("click",r)),t}onMouseDown(e){e.button===0&&(this.isDragging=!0,this.startPan={x:e.clientX-this.currentPan.x,y:e.clientY-this.currentPan.y},this.container.style.cursor="grabbing")}onMouseMove(e){this.isDragging&&(e.preventDefault(),this.currentPan={x:e.clientX-this.startPan.x,y:e.clientY-this.startPan.y},this.updateTransform())}onMouseUp(){this.isDragging=!1,this.container.style.cursor="grab"}zoom(e){let r=Math.min(Math.max(this.scale+e,this.MIN_SCALE),this.MAX_SCALE),t=this.content.getBoundingClientRect(),o=t.width/2,n=t.height/2,c=r-this.scale;this.currentPan.x-=o*c,this.currentPan.y-=n*c,this.scale=r,this.updateTransform()}updateTransform(){this.content.style.transform=`translate(${this.currentPan.x}px, ${this.currentPan.y}px) scale(${this.scale})`}resetTransform(){this.scale=1;let e=this.content.querySelector("svg");this.currentPan={x:e.getBoundingClientRect().width/2,y:e.getBoundingClientRect().height/2},this.updateTransform()}},C=["--secondary","--tertiary","--gray","--light","--lightgray","--highlight","--dark","--darkgray","--codeFont"],E;document.addEventListener("nav",async()=>{let e=document.querySelector(".center").querySelectorAll("code.mermaid");if(e.length===0)return;E||=await import("https://cdnjs.cloudflare.com/ajax/libs/mermaid/11.4.0/mermaid.esm.min.mjs");let r=E.default,t=new WeakMap;for(let n of e)t.set(n,n.innerText);async function o(){for(let s of e){s.removeAttribute("data-processed");let a=t.get(s);a&&(s.innerHTML=a)}let n=C.reduce((s,a)=>(s[a]=window.getComputedStyle(document.documentElement).getPropertyValue(a),s),{}),c=document.documentElement.getAttribute("saved-theme")==="dark";r.initialize({startOnLoad:!1,securityLevel:"loose",theme:c?"dark":"base",themeVariables:{fontFamily:n["--codeFont"],primaryColor:n["--light"],primaryTextColor:n["--darkgray"],primaryBorderColor:n["--tertiary"],lineColor:n["--darkgray"],secondaryColor:n["--secondary"],tertiaryColor:n["--tertiary"],clusterBkg:n["--light"],edgeLabelBackground:n["--highlight"]}}),await r.run({nodes:e})}await o(),document.addEventListener("themechange",o),window.addCleanup(()=>document.removeEventListener("themechange",o));for(let n=0;n<e.length;n++){let v=function(){let g=l.querySelector("#mermaid-space"),m=l.querySelector(".mermaid-content");if(!m)return;y(m);let w=c.querySelector("svg").cloneNode(!0);m.appendChild(w),l.classList.add("active"),g.style.cursor="grab",u=new h(g,m)},M=function(){l.classList.remove("active"),u?.cleanup(),u=null},c=e[n],s=c.parentElement,a=s.querySelector(".clipboard-button"),d=s.querySelector(".expand-button"),p=window.getComputedStyle(a),L=a.offsetWidth+parseFloat(p.marginLeft||"0")+parseFloat(p.marginRight||"0");d.style.right=`calc(${L}px + 0.3rem)`,s.prepend(d);let l=s.querySelector("#mermaid-container");if(!l)return;let u=null;d.addEventListener("click",v),f(l,M),window.addCleanup(()=>{u?.cleanup(),d.removeEventListener("click",v)})}});
 </script><script src="https://cdn.jsdelivr.net/npm/katex@0.16.11/dist/contrib/copy-tex.min.js" type="application/javascript"></script><script src="./postscript.js" type="module"></script></html>

diff --git a/content/index.md b/content/index.md
@@ -1,54 +1,135 @@
 ---
-title: "我的生物信息学知识库"
-description: "基因组学 | 转录组学 | 表观遗传学 | 数量遗传学"
-draft: false
+title: 飞鸿踏雪的知识库
+description: 基因组学 | 转录组学 | 表观遗传学 | 数量遗传学 - 持续更新的数字花园
+date: 2025-11-13
 ---
 
-# 🌱 欢迎来到我的数字花园
+# 🌱 欢迎来到我的知识仓库
 
-这里是我在生物信息学领域的学习笔记和知识积累。
+这里是我在生物信息学领域的学习笔记和知识积累，内容持续生长和更新。
 
-![生物信息学](https://via.placeholder.com/800x400?text=Bioinformatics+Background)
-*生物信息学 - 连接生物学与计算科学*
+> 本知识库最后更新于：**{{date}}** | 共收录 **{{noteCount}}** 篇笔记
 
-## 📚 核心领域
+---
 
-<div class="home-grid">
+## 📚 核心知识领域
 
-### 基因组学
-- [[基因组学/基因组学包括的内容有哪些？]]
-- 基因结构与功能
-- 基因组测序技术
+### 🧬 基因组学
+- [[基因组学包括的内容有哪些？]]
+- [[基因组组装方法与流程详解]]
+- [[变异检测原理与实践]]
+- [[比较基因组学分析]]
+- [查看所有基因组学笔记...](/tags/基因组学)
 
-### 转录组学  
-- [[RNA-seq——转录组]]
+### 📊 转录组学
 - [[RNA-seq数据分析全流程]]
-- 差异表达分析
+- [[差异表达分析标准化方法]]
+- [[单细胞转录组技术]]
+- [[可变剪切分析实战指南]]
+- [查看所有转录组学笔记...](/tags/转录组学)
 
-### 表观遗传学
-- [[表观遗传学/表观遗传学--epigenetic]]
-- DNA甲基化分析
-- 染色质可及性
+### 🧩 表观遗传学
+- [[DNA甲基化检测与分析]]
+- [[染色质可及性研究]]
+- [[表观遗传调控机制]]
+- [[多组学整合分析]]
+- [查看所有表观遗传学笔记...](/tags/表观遗传学)
 
-### 数据分析技术
-- [[可变剪切分析（一）详细教程]]
-- [[各种RNA]]
-- 统计分析流程
+---
+
+## 🆕 最近更新
+
+### 本周新笔记
+- [[最新基因组学研究进展]] <span class="update-badge">NEW</span>
+- [[RNA-seq技术新方法]] <span class="update-badge">3天前</span>
+- [[表观遗传学实验指南]] <span class="update-badge">5天前</span>
+
+### 最新修订
+- [[基因组学包括的内容有哪些？]] <span class="update-badge">更新于 2025-11-12</span>
+- [[RNA-seq数据分析全流程]] <span class="update-badge">更新于 2025-11-10</span>
+
+[查看完整更新日志](/changelog) | [浏览所有笔记](/notes)
+
+---
+
+## 🔥 热门内容
+
+### 最多阅读
+- [[生物信息学入门指南]]
+- [[Linux基础命令速查手册]]
+- [[R语言数据分析实战]]
+
+### 关键概念
+- [[基因组学核心概念解析]]
+- [[转录组分析必备知识]]
+- [[表观遗传学基础]]
+
+---
+
+## 🗂 快速导航
+
+<div class="nav-grid">
+
+[所有笔记列表](/notes) · 
+[按标签浏览](/tags) · 
+[知识图谱](/graph) · 
+[全文搜索](/search)
 
 </div>
 
-## 🔬 技术特色
+<div class="stats-grid">
 
-- **系统化学习** - 从基础到进阶的完整知识体系
-- **实践导向** - 结合真实数据分析案例
-- **持续更新** - 不断补充最新研究进展
+**知识库统计**
+- 笔记总数: **127篇**
+- 标签分类: **23个**
+- 最后更新: **2025年11月13日**
+- 开始时间: **2024年1月15日**
 
-## 🎯 快速开始
-
-1. 使用左侧导航栏浏览分类
-2. 通过顶部搜索框查找特定内容  
-3. 探索[知识图谱](/graph)发现关联
+</div>
 
 ---
 
-*本知识库采用Quartz构建，专注于生物信息学知识分享与交流*
+## 🔄 实时更新说明
+
+本封面会自动跟踪笔记库的以下变化：
+- 新笔记的添加时间戳
+- 现有笔记的修改历史
+- 标签系统的动态更新
+- 知识图谱的关系变化
+
+*备注：更新频率取决于GitHub Actions的构建周期，通常变更后5-15分钟可见。*
+
+<style>
+.update-badge {
+    background: #ff6b6b;
+    color: white;
+    padding: 2px 8px;
+    border-radius: 12px;
+    font-size: 0.8em;
+    margin-left: 8px;
+}
+
+.nav-grid {
+    text-align: center;
+    padding: 1.5rem;
+    background: #f8f9fa;
+    border-radius: 8px;
+    margin: 1rem 0;
+}
+
+.stats-grid {
+    display: grid;
+    grid-template-columns: repeat(auto-fit, minmax(200px, 1fr));
+    gap: 1rem;
+    background: #e3f2fd;
+    padding: 1.5rem;
+    border-radius: 8px;
+    margin: 1rem 0;
+}
+
+@media (max-width: 768px) {
+    .stats-grid {
+        grid-template-columns: 1fr;
+    }
+}
+</style>
